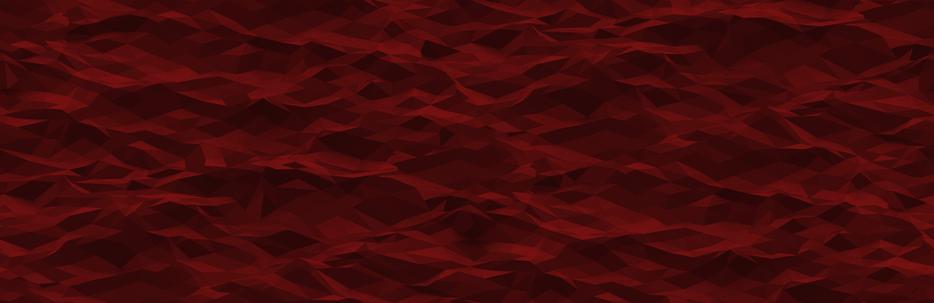
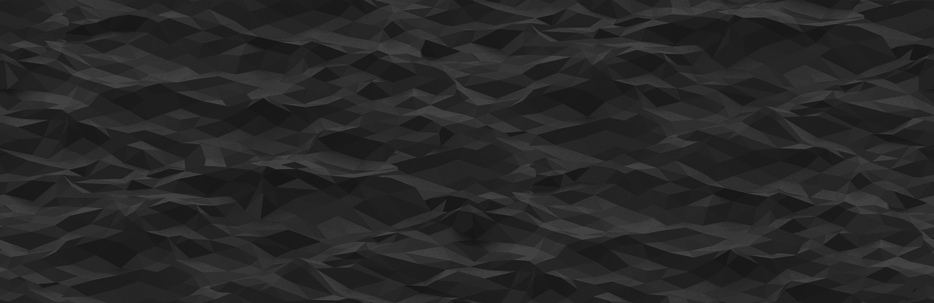
updated background

diff --git a/blog.html b/blog.html
@@ -167,7 +167,7 @@
     <script src="assets/bootstrap/js/bootstrap.min.js"></script>
     <script src="assets/js/three.r92.min.js"></script> 
     <script src="assets/js/vanta.waves.min.js"></script> 
-    <script> VANTA.WAVES({ el: "#waveBackground", color: 0x460909, shininess: 20.00, waveHeight: 25.00, waveSpeed: 1.50, zoom: 0.65 }) </script>
+    <script> VANTA.WAVES({ el: "#waveBackground", color: 0x101010, shininess: 20.00, waveHeight: 25.00, waveSpeed: 2, zoom: 0.7 }) </script>
 
 </body>
 

diff --git a/contato.html b/contato.html
@@ -148,7 +148,7 @@
     <script src="assets/bootstrap/js/bootstrap.min.js"></script>
     <script src="assets/js/three.r92.min.js"></script> 
     <script src="assets/js/vanta.waves.min.js"></script> 
-    <script> VANTA.WAVES({ el: "#waveBackground", color: 0x460909, shininess: 20.00, waveHeight: 25.00, waveSpeed: 1.50, zoom: 0.65 }) </script>
+    <script> VANTA.WAVES({ el: "#waveBackground", color: 0x101010, shininess: 20.00, waveHeight: 25.00, waveSpeed: 2, zoom: 0.7 }) </script>
 
 </body>
 

diff --git a/index.html b/index.html
@@ -159,7 +159,7 @@
     <script src="assets/bootstrap/js/bootstrap.min.js"></script>
     <script src="assets/js/three.r92.min.js"></script> 
     <script src="assets/js/vanta.waves.min.js"></script> 
-    <script> VANTA.WAVES({ el: "#waveBackground", color: 0x460909, shininess: 20.00, waveHeight: 25.00, waveSpeed: 1.50, zoom: 0.65 }) </script>
+    <script> VANTA.WAVES({ el: "#waveBackground", color: 0x101010, shininess: 20.00, waveHeight: 25.00, waveSpeed: 2, zoom: 0.7 }) </script>
 
 </body>
 

diff --git a/livros.html b/livros.html
@@ -118,7 +118,7 @@
     <script src="assets/bootstrap/js/bootstrap.min.js"></script>
     <script src="assets/js/three.r92.min.js"></script> 
     <script src="assets/js/vanta.waves.min.js"></script> 
-    <script> VANTA.WAVES({ el: "#waveBackground", color: 0x460909, shininess: 20.00, waveHeight: 25.00, waveSpeed: 1.50, zoom: 0.65 }) </script>
+    <script> VANTA.WAVES({ el: "#waveBackground", color: 0x101010, shininess: 20.00, waveHeight: 25.00, waveSpeed: 2, zoom: 0.7 }) </script>
 
 </body>
 

diff --git a/projetos.html b/projetos.html
@@ -202,7 +202,7 @@
     <script src="assets/bootstrap/js/bootstrap.min.js"></script>
     <script src="assets/js/three.r92.min.js"></script> 
     <script src="assets/js/vanta.waves.min.js"></script> 
-    <script> VANTA.WAVES({ el: "#waveBackground", color: 0x460909, shininess: 20.00, waveHeight: 25.00, waveSpeed: 1.50, zoom: 0.65 }) </script>
+    <script> VANTA.WAVES({ el: "#waveBackground", color: 0x101010, shininess: 20.00, waveHeight: 25.00, waveSpeed: 2, zoom: 0.7 }) </script>
 
 </body>
 

diff --git a/sobre.html b/sobre.html
@@ -103,7 +103,7 @@
     <script src="assets/bootstrap/js/bootstrap.min.js"></script>
     <script src="assets/js/three.r92.min.js"></script> 
     <script src="assets/js/vanta.waves.min.js"></script> 
-    <script> VANTA.WAVES({ el: "#waveBackground", color: 0x460909, shininess: 20.00, waveHeight: 25.00, waveSpeed: 1.50, zoom: 0.65 }) </script>
+    <script> VANTA.WAVES({ el: "#waveBackground", color: 0x101010, shininess: 20.00, waveHeight: 25.00, waveSpeed: 2, zoom: 0.7 }) </script>
 
 </body>
 

diff --git a/videos.html b/videos.html
@@ -101,7 +101,7 @@
     <script src="assets/bootstrap/js/bootstrap.min.js"></script>
     <script src="assets/js/three.r92.min.js"></script> 
     <script src="assets/js/vanta.waves.min.js"></script> 
-    <script> VANTA.WAVES({ el: "#waveBackground", color: 0x460909, shininess: 20.00, waveHeight: 25.00, waveSpeed: 1.50, zoom: 0.65 }) </script>
+    <script> VANTA.WAVES({ el: "#waveBackground", color: 0x101010, shininess: 20.00, waveHeight: 25.00, waveSpeed: 2, zoom: 0.7 }) </script>
 
 </body>
 

diff --git a/midia.html b/midia.html
@@ -91,7 +91,7 @@
     <script src="assets/bootstrap/js/bootstrap.min.js"></script>
     <script src="assets/js/three.r92.min.js"></script> 
     <script src="assets/js/vanta.waves.min.js"></script> 
-    <script> VANTA.WAVES({ el: "#waveBackground", color: 0x460909, shininess: 20.00, waveHeight: 25.00, waveSpeed: 1.50, zoom: 0.65 }) </script>
+    <script> VANTA.WAVES({ el: "#waveBackground", color: 0x101010, shininess: 20.00, waveHeight: 25.00, waveSpeed: 2, zoom: 0.7 }) </script>
 
 </body>
 

diff --git a/fotos.html b/fotos.html
@@ -112,7 +112,7 @@
     <script src="assets/js/lightbox.min.js"></script>
     <script src="assets/js/three.r92.min.js"></script> 
     <script src="assets/js/vanta.waves.min.js"></script> 
-    <script> VANTA.WAVES({ el: "#waveBackground", color: 0x460909, shininess: 20.00, waveHeight: 25.00, waveSpeed: 1.50, zoom: 0.65 }) </script>
+    <script> VANTA.WAVES({ el: "#waveBackground", color: 0x101010, shininess: 20.00, waveHeight: 25.00, waveSpeed: 2, zoom: 0.7 }) </script>
 
 </body>
 
